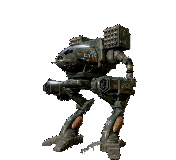
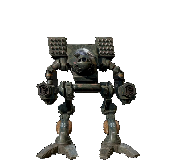
fix(character): Rebuild Timber Wolf sleep as idle + torso twists
#296: main still shipped the tall alternate-stand sleep (~134–136px @
1 fps). Port the idle-height scan from 4e30f8a2 — four frames at 3 fps
with left/right torso shear, matching idle silhouette (123–125px).
Weapon arms and floor lock unchanged. Assert sleep height/fps in
character_packages so the tall stand cannot regress quietly.

Changed region(s): [[0.1989, 0.1562, 0.7955, 1.0]]

diff --git a/crates/core/tests/character_packages.rs b/crates/core/tests/character_packages.rs
@@ -321,6 +321,49 @@ fn timber_wolf_stands_on_the_canvas_floor() {
     }
 }
 
+/// #296: sleep is idle + left/right torso-twist scan — idle height (~123–125px),
+/// not the taller alternate stand (~134–136px) that shipped with #161. Four
+/// frames at 3 fps so the scan reads on station.
+#[test]
+fn timber_wolf_sleep_is_idle_height_torso_scan() {
+    let character = load_package("timber-wolf").expect("Timber Wolf package is valid");
+    let sleep = &character.animations["sleep"];
+    assert_eq!(
+        sleep.frames.len(),
+        4,
+        "sleep is a four-frame idle + torso-twist scan cycle"
+    );
+    assert_eq!(sleep.fps, 3, "sleep plays at 3 fps so the scan is readable");
+
+    let frames = frames_of("timber-wolf");
+    let sil_h = |anim: &str| -> Vec<usize> {
+        frames
+            .iter()
+            .filter(|(a, _, _)| a == anim)
+            .map(|(_, _, bytes)| {
+                let (w, h, alpha) = frame_alpha(bytes);
+                let (top, bottom, _) = silhouette(w, h, &alpha);
+                bottom - top + 1
+            })
+            .collect()
+    };
+
+    let idle_heights = sil_h("idle");
+    let sleep_heights = sil_h("sleep");
+    assert_eq!(idle_heights.len(), 2, "idle ships two frames");
+    assert_eq!(sleep_heights.len(), 4, "sleep ships four frames");
+
+    let idle_lo = *idle_heights.iter().min().expect("idle");
+    let idle_hi = *idle_heights.iter().max().expect("idle");
+    for (i, h) in sleep_heights.iter().enumerate() {
+        assert!(
+            (idle_lo.saturating_sub(2)..=idle_hi + 2).contains(h),
+            "sleep-{i} silhouette is {h}px; idle is {idle_lo}–{idle_hi}px — sleep must \
+             match idle height, not the tall ~134–136px alternate stand"
+        );
+    }
+}
+
 /// #161: one canvas for the package, silhouette heavy beside Jotaro's 110px
 /// without dwarfing the desktop.
 #[test]
